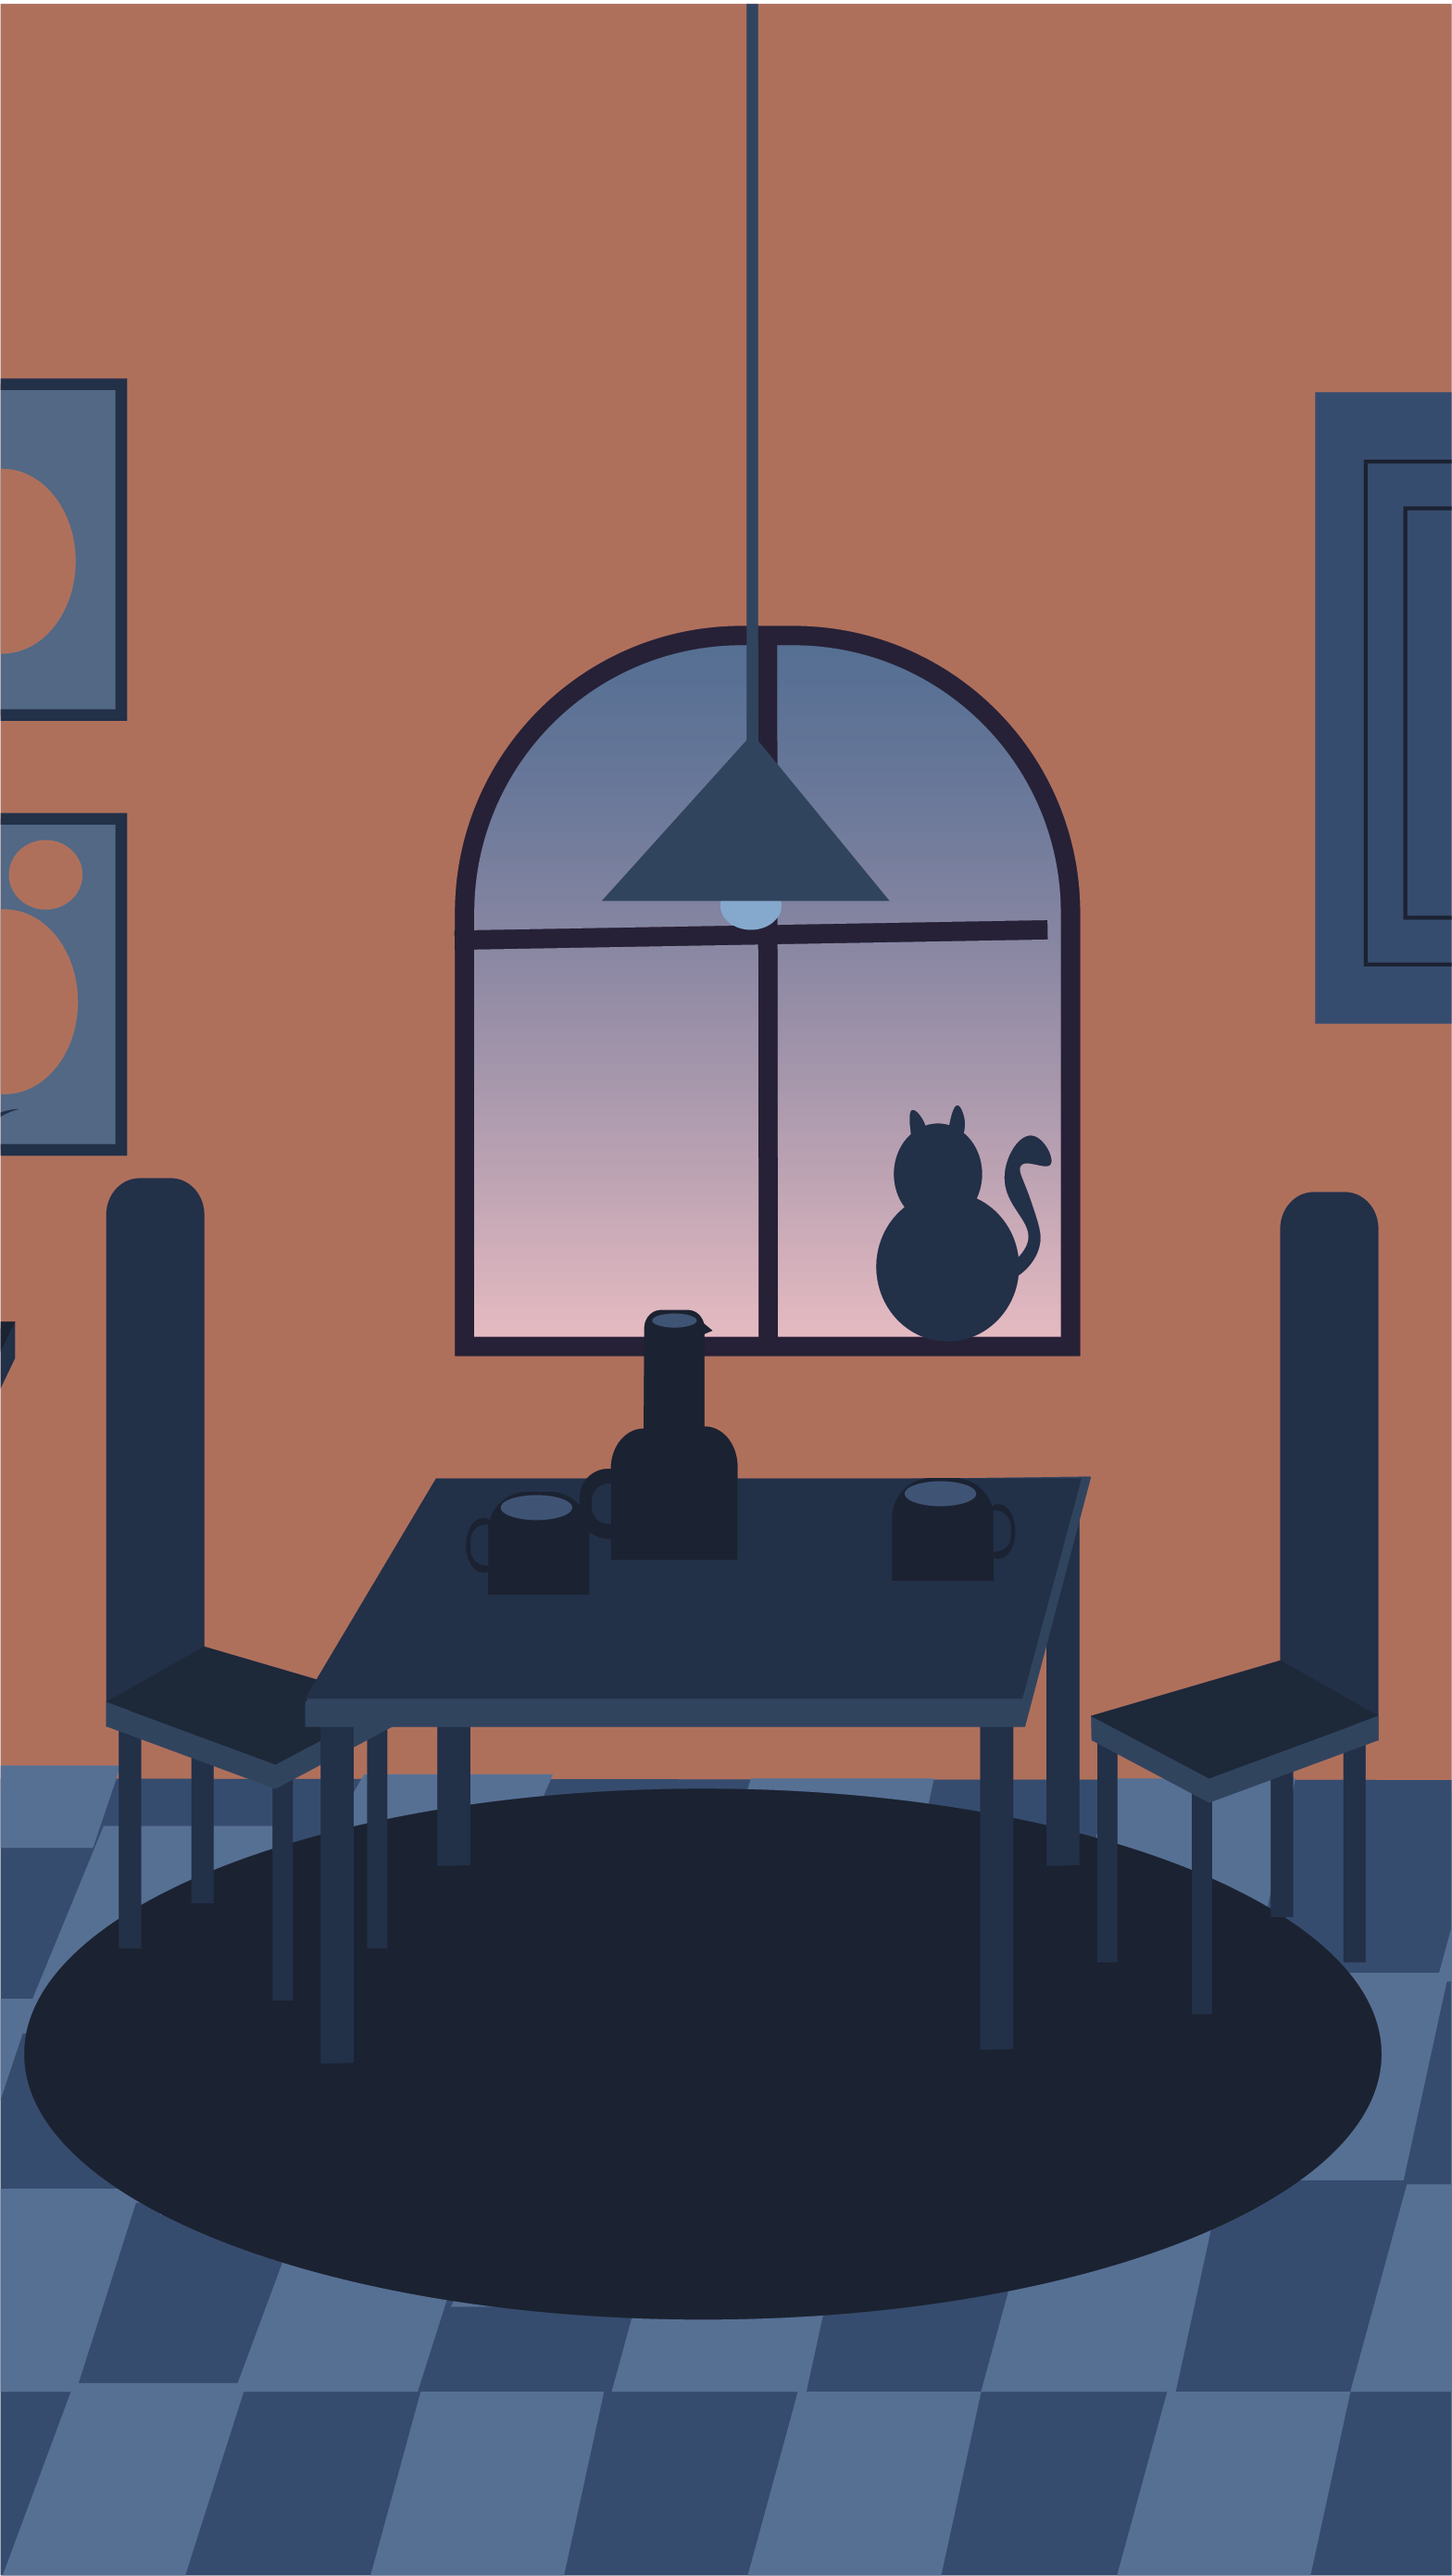
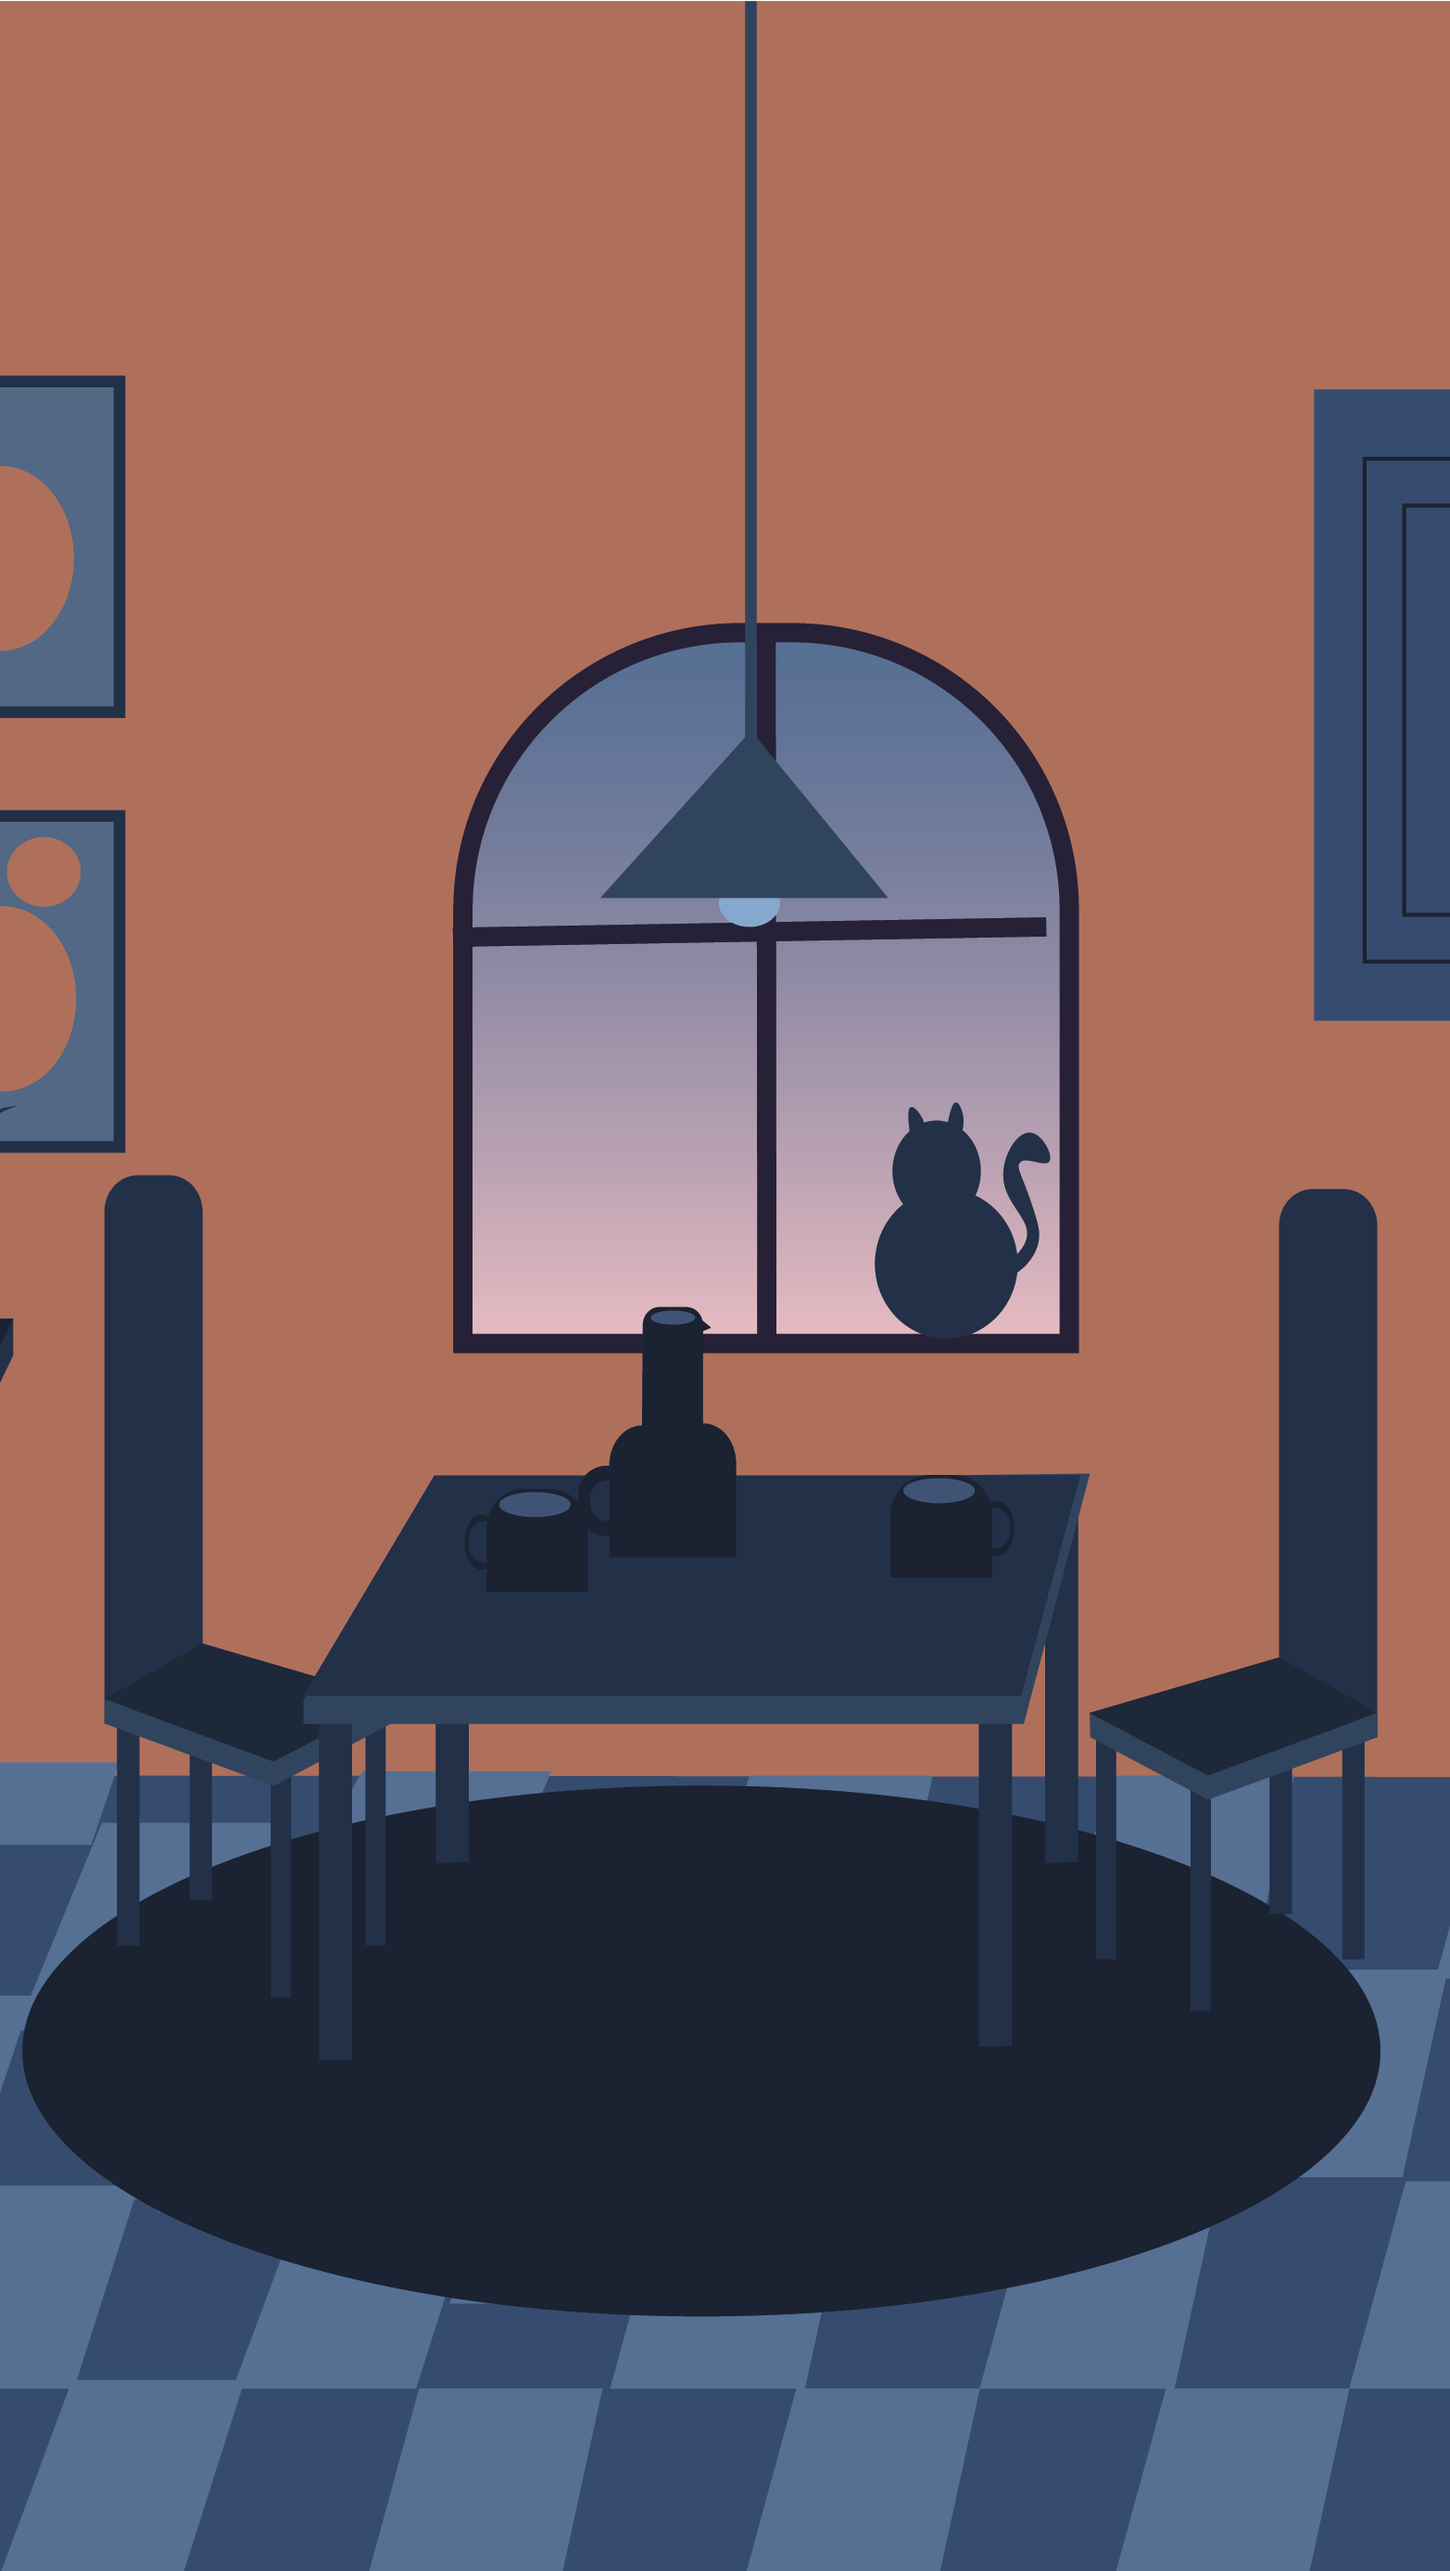
bytte lite namn och förde ihop classer
jag bytte 'section class="welcome" till "container"(samma med 'welcome-text', nu container-text) som nu körs på alla sidor. samma sak med 'paper-right' bytte jag namn till bara 'paper'. så jag tog bort 'paper-left', kör bara paper istället. jag bytte även namn på 'fp-img' till 'room-img' så det blir lättare att förstå

Changed region(s): [[0.0613, 0.3099, 0.092, 0.4339], [0.0613, 0.155, 0.092, 0.2789], [0.0, 0.3099, 0.0307, 0.3409]]

diff --git a/index.html b/index.html
@@ -60,7 +60,6 @@
             </clipPath>
           </defs>
         </svg>
-        </div>
       </button>
     </label>
   </header>
@@ -76,17 +75,17 @@
     
 
   <main>
-  <section class="welcome">
+  <section class="container">
     <a id="welcome"></a>
    <!--  <div class="welcome-container"> -->
       <picture>
         <source srcset="/assets/img/nudu.png" media="(min-width: 800px)" />
         <source srcset="/assets/img/nudu.png" media="(min-width: 400px)"  />
-        <img src="/assets/img/nudu.png" class="fp-img" alt="" />
+        <img src="assets/img/room1_mobile.png" class="room-img" alt="" />
       </picture>
 
       
-      <div class="paper-right">
+      <div class="paper">
         <img src="/assets/svg/paper_right.svg" alt="torn paper">
         
           
@@ -94,7 +93,7 @@
         <!-- <img src="assets/img/hammer.svg" width="100px;" class="test" /> -->
        <!--  <div class="welcome-content"> -->
          
-        <div class="welcome-text">
+        <div class="container-text">
           <div class data-aos="fade-up">
           <h1>Welcome</h1>
           
@@ -114,40 +113,81 @@
       <a id="program"></a>
       <div class="program-container">
         <picture>
-          <source srcset="/assets/svg/paper.svg" media="(min-width: 800px)" class="fp-img"/>
-          <source srcset="/assets/svg/paper.svg" media="(min-width: 400px)" class="fp-img"/>
-          <img src="/assets/svg/paper.svg" class="fp-img" alt=""/>
+          <source srcset="/assets/svg/paper.svg" media="(min-width: 800px)" class="room-img"/>
+          <source srcset="/assets/svg/paper.svg" media="(min-width: 400px)" class="room-img"/>
+          <img src="/assets/svg/paper.svg" class="room-img" alt=""/>
         </picture>
         <div class="program-content">
           <div class data-aos="fade-up">
           <h1>Program</h1>
         <p>Lorem ipsum dolor sit amet consectetur adipisicing elit. Quod itaque sunt velit neque, 
-          quos expedita. Deleniti inventore ipsa odio, perspiciatis, velit perferendis quidem veniam 
-          placeat dolorum aperiam voluptas sed minus.</p>
+          quos expedita. </p>
+          <ul>
+            <li>1. korv med bröd</li>
+            <li>2. fiskdamm</li>
+            <li>3. fri lek</li>
+            <li>4. repetera steg 1-3</li>
+          </ul>
         </div>
         </div>
       </div> 
     </section>
         
-        
+    
+    
+    <section class="container">
+      <a id="welcome"></a>
+      <!--  <div class="welcome-container"> -->
+      <picture>
+        <source srcset="/assets/img/room2.png" media="(min-width: 800px)" />
+        <source srcset="/assets/img/room2.png" media="(min-width: 400px)" />
+        <img src="assets/img/room2.png" class="room-img" alt="" />
+      </picture>
+    
+    
+      <div class="paper">
+        <img src="/assets/svg/paper_left.svg" alt="torn paper">
+    
+    
+        <!--<img src="/assets/svg/paper_right.svg" class="paper-img" alt=""/> -->
+        <!-- <img src="assets/img/hammer.svg" width="100px;" class="test" /> -->
+        <!--  <div class="welcome-content"> -->
+    
+        <div class="container-text">
+          <div class data-aos="fade-up">
+            <h1>RSVP</h1>
+    
+            <p>Lorem ipsum dolor sit amet consectetur adipisicing elit. Quod itaque sunt velit neque,
+              quos expedita. Deleniti inventore ipsa odio, perspiciatis, velit perferendis quidem veniam
+              placeat dolorum aperiam voluptas sed minus.</p>
+          </div>
+        </div>
+      </div>
+    
+    
+      <!--    </div> -->
+      <!--   </div> -->
+    </section>
+
+
+<!-- 
     <section class="rsvp">
       <a id="rsvp"></a>
       <div class="rsvp-container">
         <picture>
           <source
-              srcset="/assets/img/pizza.jpg"
+              srcset="/assets/img/room2.png.jpg"
               media="(min-width: 800px)"
               class="fp-img"
             />
             <source
-              srcset="/assets/img/högrum1.png"
+              srcset="/assets/img/room2.png"
               media="(min-width: 400px)"
               class="fp-img"
             />
             <img src="/assets/img/högrum1.png" class="fp-img" alt=""/>
           </picture>
           <div class="paper-left">
-        <!-- paper left svg -->
             <div class="rsvp-content">
               <div class data-aos="fade-up">
               <h1>RSVP</h1>
@@ -158,7 +198,7 @@
             </div>
           </div>
       </div>
-
+ -->
       
       
     </section>

diff --git a/styles/index.css b/styles/index.css
@@ -4,7 +4,7 @@
 }
 
 body {
-  /*max-height: 100vh;*/
+  max-height: 100vh;
   display: flex;
   flex-direction: column;
   overflow-y: scroll;
@@ -18,7 +18,7 @@ body {
 } */
 
 /* fd welcome-container */
-.welcome {
+.container {
   display: flex;
   justify-content: center;
   align-items: center;
@@ -29,11 +29,11 @@ body {
   /* left: 0; */
 }
 
-.paper-right {
+.paper {
   display: flex;
   justify-content: flex-end;
   max-width: 100%;
-  /* height: 500px; */ /* funkar ej?? */
+  /* height: 500px; */
   position: absolute;
   /* z-index: 1; */
   font-size: 16px;
@@ -42,7 +42,7 @@ body {
   opacity: 0.8;
 }
 
-.welcome-text {
+.container-text {
   display: flex;
   width: 90%;
   padding: 30px;
@@ -55,16 +55,20 @@ body {
   right: 10px;
 } */
 
-.paper-right img {
+.paper img {
   display: flex;
   position: absolute;
+  justify-content: flex-end;
+  /*   max-height: 400px;
+  max-width: 90%; */
 }
 
-/* FULL PAGE IMAGES */
-.fp-img {
+/* bytte namn, föredetta fp-img */
+.room-img {
   width: 100vw;
   height: 100vh;
   top: 0;
+  bottom: 0;
   object-fit: cover;
 }
 
@@ -113,29 +117,19 @@ body {
   width: 100vw;
 }
 
-.paper-left {
-  max-width: 300px;
-  height: 400px;
-  opacity: 0.8;
-  background-color: #235c9d;
-  color: white;
+/* .paper-left {
+  display: flex;
+  justify-content: flex-start;
+  max-width: 100%;
+  height: 500px;
   position: absolute;
+  z-index: 1;
   font-size: 16px;
-  top: 20%;
-  left: 0px;
-  padding: 1rem;
-}
+   top: 15%;
+  right: 0px;
+  opacity: 0.8;
+} */
 /*
 .rsvp-content {
   font size etc
 }*/
-
-h1 {
-  font-size: 5vh;
-  margin-bottom: 1rem;
-  color: #235c9d;
-}
-
-p {
-  color: black;
-}

diff --git a/styles/header.css b/styles/header.css
@@ -26,8 +26,8 @@
 header {
   position: fixed;
   top: 90vh;
-  margin-right: 50%;
-  margin-left: 50%;
+  margin-right: 55%; /*en jävla nödlösning*/
+  margin-left: 45%;
   height: 50px;
   z-index: 10;
 }
@@ -43,11 +43,11 @@ header {
   pointer-events: none;
 }
 
-.hamburger-background {
+/* .hamburger-background {
   width: 100%;
   height: 60px;
   background-color: rgba(144, 144, 208, 0.705);
-}
+} */
 
 header input {
   opacity: 0;

diff --git a/styles/hero.css b/styles/hero.css
@@ -1,3 +1,8 @@
+* {
+  margin: 0;
+  box-sizing: border-box;
+}
+
 .img-hero {
   width: 100vw;
   height: 100vh;
@@ -10,5 +15,4 @@
   flex-direction: column;
   min-width: 100vw;
   scroll-snap-align: start;
-  /*border-bottom: 5px solid indigo;*/
 }

diff --git a/styles/global.css b/styles/global.css
@@ -5,6 +5,16 @@
   /*scroll-behavior: smooth;*/
 }
 
+h1 {
+  font-size: 5vh;
+  margin-bottom: 1rem;
+  color: #235c9d;
+}
+
+p {
+  color: black;
+}
+
 /*
 :root {
     --header-bg: ;
